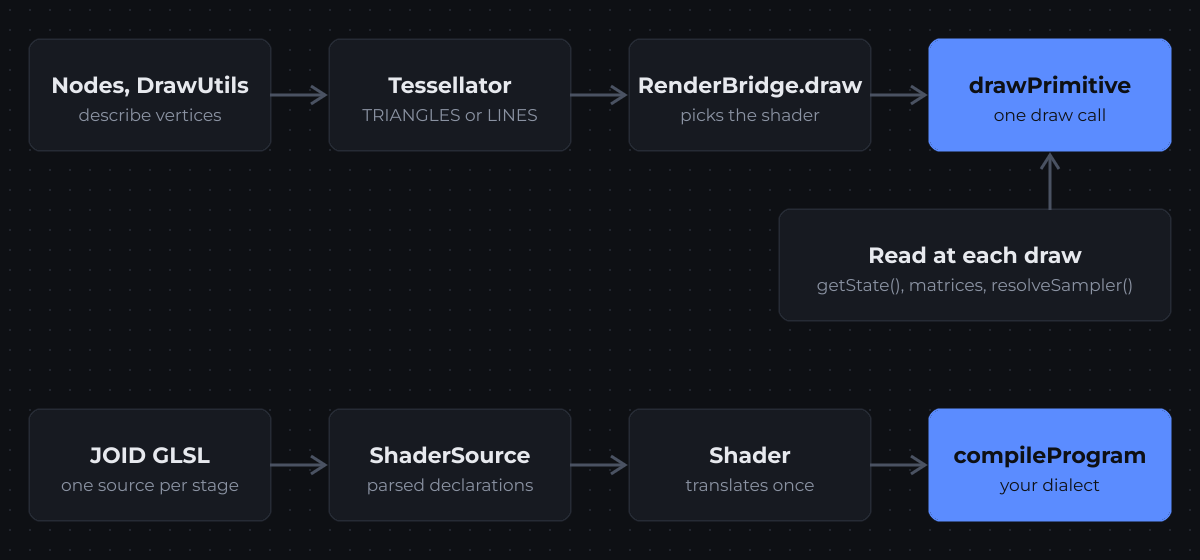
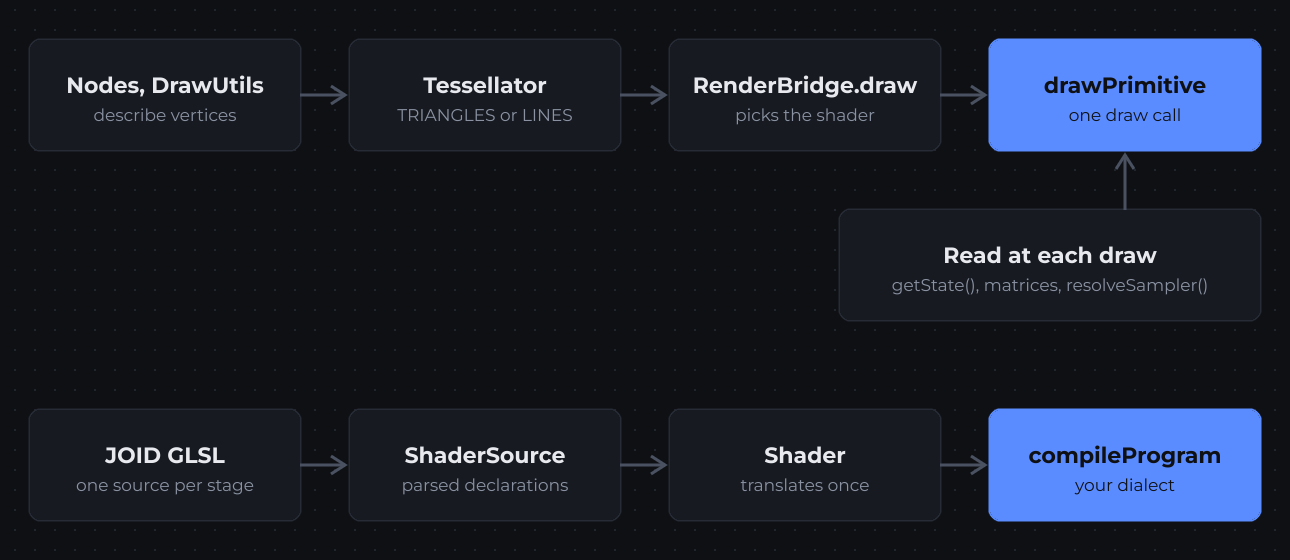
fix: wider diagram boxes (🐛)

diff --git a/documentation/examples/src/main/java/com/example/backend/diagram/PipelineDiagramUI.java b/documentation/examples/src/main/java/com/example/backend/diagram/PipelineDiagramUI.java
@@ -6,27 +6,27 @@ public class PipelineDiagramUI extends BuildDiagramUI {
 
 	@Override
 	public void init() {
-		final RectNode backdrop = super.backdrop(360, 240, 1200, 560).attach(this);
+		final RectNode backdrop = super.backdrop(315, 240, 1290, 560).attach(this);
 
-		super.box(30, 40, 240, 110, "Nodes, DrawUtils", "describe vertices").attach(backdrop);
-		super.box(330, 40, 240, 110, "Tessellator", "TRIANGLES or LINES").attach(backdrop);
-		super.box(630, 40, 240, 110, "RenderBridge.draw", "picks the shader").attach(backdrop);
-		super.subject(930, 40, 240, 110, "drawPrimitive", "one draw call").attach(backdrop);
+		super.box(30, 40, 270, 110, "Nodes, DrawUtils", "describe vertices").attach(backdrop);
+		super.box(350, 40, 270, 110, "Tessellator", "TRIANGLES or LINES").attach(backdrop);
+		super.box(670, 40, 270, 110, "RenderBridge.draw", "picks the shader").attach(backdrop);
+		super.subject(990, 40, 270, 110, "drawPrimitive", "one draw call").attach(backdrop);
 
-		super.box(780, 210, 390, 110, "Read at each draw", "getState(), matrices, resolveSampler()").attach(backdrop);
+		super.box(840, 210, 420, 110, "Read at each draw", "getState(), matrices, resolveSampler()").attach(backdrop);
 
-		super.box(30, 410, 240, 110, "JOID GLSL", "one source per stage").attach(backdrop);
-		super.box(330, 410, 240, 110, "ShaderSource", "parsed declarations").attach(backdrop);
-		super.box(630, 410, 240, 110, "Shader", "translates once").attach(backdrop);
-		super.subject(930, 410, 240, 110, "compileProgram", "your dialect").attach(backdrop);
+		super.box(30, 410, 270, 110, "JOID GLSL", "one source per stage").attach(backdrop);
+		super.box(350, 410, 270, 110, "ShaderSource", "parsed declarations").attach(backdrop);
+		super.box(670, 410, 270, 110, "Shader", "translates once").attach(backdrop);
+		super.subject(990, 410, 270, 110, "compileProgram", "your dialect").attach(backdrop);
 
 		for (final double y : new double[] {95D, 465D}) {
-			super.arrow(backdrop, 270D, y, 325D, y);
-			super.arrow(backdrop, 570D, y, 625D, y);
-			super.arrow(backdrop, 870D, y, 925D, y);
+			super.arrow(backdrop, 300D, y, 345D, y);
+			super.arrow(backdrop, 620D, y, 665D, y);
+			super.arrow(backdrop, 940D, y, 985D, y);
 		}
 
-		super.arrow(backdrop, 1050D, 210D, 1050D, 155D);
+		super.arrow(backdrop, 1125D, 210D, 1125D, 155D);
 	}
 
 }

diff --git a/documentation/examples/src/main/java/com/example/describing/lifecycle/LifecycleDiagramUI.java b/documentation/examples/src/main/java/com/example/describing/lifecycle/LifecycleDiagramUI.java
@@ -6,23 +6,23 @@ public class LifecycleDiagramUI extends DiagramUI {
 
 	@Override
 	public void init() {
-		super.backdrop(360, 300, 1200, 400).body(backdrop -> {
-			super.box(40, 40, 250, 100, "attach", "to a UI").attach(backdrop);
-			super.subject(330, 40, 250, 100, "onInit", "once per attach").attach(backdrop);
-			super.subject(620, 40, 250, 100, "onUpdate", "before drawing").attach(backdrop);
-			super.subject(910, 40, 250, 100, "onDraw, onRender", "while drawing").attach(backdrop);
-			super.subject(910, 260, 250, 100, "onMount", "first drawn frame only").attach(backdrop);
-			super.subject(40, 260, 250, 100, "onDetach", "after remove").attach(backdrop);
-			super.arrow(backdrop, 290, 90, 330, 90);
-			super.arrow(backdrop, 580, 90, 620, 90);
-			super.arrow(backdrop, 870, 90, 910, 90);
-			super.line(backdrop, 960, 140, 960, 190);
-			super.line(backdrop, 960, 190, 745, 190);
-			super.arrow(backdrop, 745, 190, 745, 140);
-			super.arrow(backdrop, 1110, 140, 1110, 260);
-			super.line(backdrop, 850, 190, 850, 310);
-			super.arrow(backdrop, 850, 310, 290, 310);
-			super.label(380, 170, 350, 40, "every frame while attached", 24F, DiagramUI.LABEL).attach(backdrop);
+		super.backdrop(300, 300, 1320, 400).body(backdrop -> {
+			super.box(40, 40, 280, 100, "attach", "to a UI").attach(backdrop);
+			super.subject(360, 40, 280, 100, "onInit", "once per attach").attach(backdrop);
+			super.subject(680, 40, 280, 100, "onUpdate", "before drawing").attach(backdrop);
+			super.subject(1000, 40, 280, 100, "onDraw, onRender", "while drawing").attach(backdrop);
+			super.subject(1000, 260, 280, 100, "onMount", "first drawn frame only").attach(backdrop);
+			super.subject(40, 260, 280, 100, "onDetach", "after remove").attach(backdrop);
+			super.arrow(backdrop, 320, 90, 360, 90);
+			super.arrow(backdrop, 640, 90, 680, 90);
+			super.arrow(backdrop, 960, 90, 1000, 90);
+			super.line(backdrop, 1050, 140, 1050, 190);
+			super.line(backdrop, 1050, 190, 820, 190);
+			super.arrow(backdrop, 820, 190, 820, 140);
+			super.arrow(backdrop, 1230, 140, 1230, 260);
+			super.line(backdrop, 935, 190, 935, 310);
+			super.arrow(backdrop, 935, 310, 320, 310);
+			super.label(450, 170, 350, 40, "every frame while attached", 24F, DiagramUI.LABEL).attach(backdrop);
 		}).attach(this);
 	}
 

diff --git a/documentation/examples/src/main/java/com/example/backend/diagram/RegistriesDiagramUI.java b/documentation/examples/src/main/java/com/example/backend/diagram/RegistriesDiagramUI.java
@@ -6,21 +6,21 @@ public class RegistriesDiagramUI extends BuildDiagramUI {
 
 	@Override
 	public void init() {
-		final RectNode backdrop = super.backdrop(400, 200, 1120, 520).attach(this);
+		final RectNode backdrop = super.backdrop(325, 200, 1270, 520).attach(this);
 
-		super.label(20, 20, 1080, 40, "Registered by Backend.register()").attach(backdrop);
-		super.box(20, 70, 200, 120, "UI", "WindowUIBridge, by default").attach(backdrop);
-		super.subject(240, 70, 200, 120, "WINDOW", "your window bridge").attach(backdrop);
-		super.subject(460, 70, 200, 120, "RENDER", "your render bridge").attach(backdrop);
-		super.box(680, 70, 200, 120, "AUDIO", "optional").attach(backdrop);
-		super.box(900, 70, 200, 120, "THREAD", "FrameThreadBridge").attach(backdrop);
+		super.label(20, 20, 1230, 40, "Registered by Backend.register()").attach(backdrop);
+		super.box(20, 70, 230, 120, "UI", "by default: WindowUIBridge").attach(backdrop);
+		super.subject(270, 70, 230, 120, "WINDOW", "your window bridge").attach(backdrop);
+		super.subject(520, 70, 230, 120, "RENDER", "your render bridge").attach(backdrop);
+		super.box(770, 70, 230, 120, "AUDIO", "optional").attach(backdrop);
+		super.box(1020, 70, 230, 120, "THREAD", "FrameThreadBridge").attach(backdrop);
 
-		super.label(20, 230, 1080, 40, "Registered by JOID before any backend").attach(backdrop);
-		super.box(20, 280, 200, 120, "CLOCK", "SystemClockBridge").attach(backdrop);
-		super.box(240, 280, 200, 120, "THREAD", "DirectThreadBridge").attach(backdrop);
-		super.box(460, 280, 200, 120, "SIGNAL_REPLAY", "identity").attach(backdrop);
+		super.label(20, 230, 1230, 40, "Registered by JOID before any backend").attach(backdrop);
+		super.box(20, 280, 230, 120, "CLOCK", "SystemClockBridge").attach(backdrop);
+		super.box(270, 280, 230, 120, "THREAD", "DirectThreadBridge").attach(backdrop);
+		super.box(520, 280, 230, 120, "SIGNAL_REPLAY", "identity").attach(backdrop);
 
-		super.label(20, 430, 1080, 70, "get() returns the bridge of the highest priority: only UI uses all of its bridges").attach(backdrop);
+		super.label(20, 430, 1230, 70, "get() returns the bridge of the highest priority: only UI uses all of its bridges").attach(backdrop);
 	}
 
 }

diff --git a/documentation/examples/src/main/java/com/example/further/PipelineDiagramUI.java b/documentation/examples/src/main/java/com/example/further/PipelineDiagramUI.java
@@ -24,20 +24,20 @@ public class PipelineDiagramUI extends UI {
 		final String[] arrows = {"draws into", "pass 1", "pass 2", "last pass"};
 
 		ContainerNode
-		.create(80, 80, 1240, 160)
+		.create(80, 80, 1340, 160)
 		.body(container -> {
 			for (int i = 0; i < boxes.length; i++) {
-				RectNode.create(i * 260, 60, 180, 80).color(CaptureStyle.SURFACE).effect(RoundedNodeEffect.create(12F)).effect(BorderNodeEffect.create(CaptureStyle.STROKE, 1.5F)).label(Text.create(boxes[i], info)).attach(container);
+				RectNode.create(i * 284, 60, 204, 80).color(CaptureStyle.SURFACE).effect(RoundedNodeEffect.create(12F)).effect(BorderNodeEffect.create(CaptureStyle.STROKE, 1.5F)).label(Text.create(boxes[i], info)).attach(container);
 			}
 
 			for (int i = 0; i < arrows.length; i++) {
-				TextNode.create(i * 260 + 220, 20).text(Text.create(arrows[i], info)).anchorX(Align.CENTER).attach(container);
+				TextNode.create(i * 284 + 244, 20).text(Text.create(arrows[i], info)).anchorX(Align.CENTER).attach(container);
 			}
 		})
 		.layer((node, mouseX, mouseY) -> {
 			for (int i = 0; i < arrows.length; i++) {
-				final double start = i * 260D + 184D;
-				final double end = i * 260D + 254D;
+				final double start = i * 284D + 208D;
+				final double end = i * 284D + 278D;
 				DrawUtils.SHAPE.drawLine(CaptureStyle.ACCENT, 3F, Point.of(start, 100D), Point.of(end, 100D));
 				final Point tip = Point.of(end, 100D);
 				DrawUtils.SHAPE.drawPolygon(CaptureStyle.ACCENT, tip, Point.of(end - 12D, 92D), Point.of(end - 12D, 108D));
